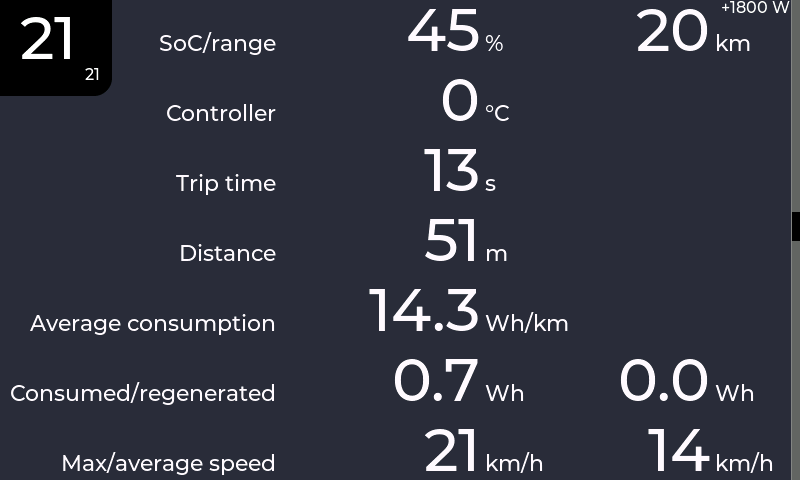
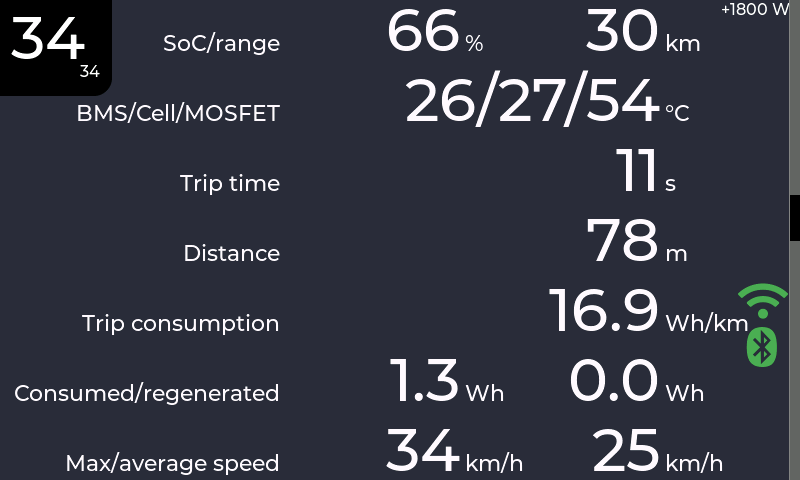
README: Update screenshots

diff --git a/README.md b/README.md
@@ -9,6 +9,9 @@ controllers. It's built for an ESP32P4 microcontroller, but can also be run on t
 </p>
 <p align="center">
   <a href="doc/city_zoom.png"><img src="doc/city_zoom.png" alt="maximum zoom with range" width="31%"></a>
+  <a href="doc/help_bubbles.png"><img src="doc/help_bubbles.png" alt="speech bubbles with help text" width="31%"></a>
+</p>
+<p align="center">
   <a href="doc/trip_screen.png"><img src="doc/trip_screen.png" alt="trip meter screen" width="31%"></a>
   <a href="doc/menu.png"><img src="doc/menu.png" alt="menu screen" width="31%"></a>
 </p>
